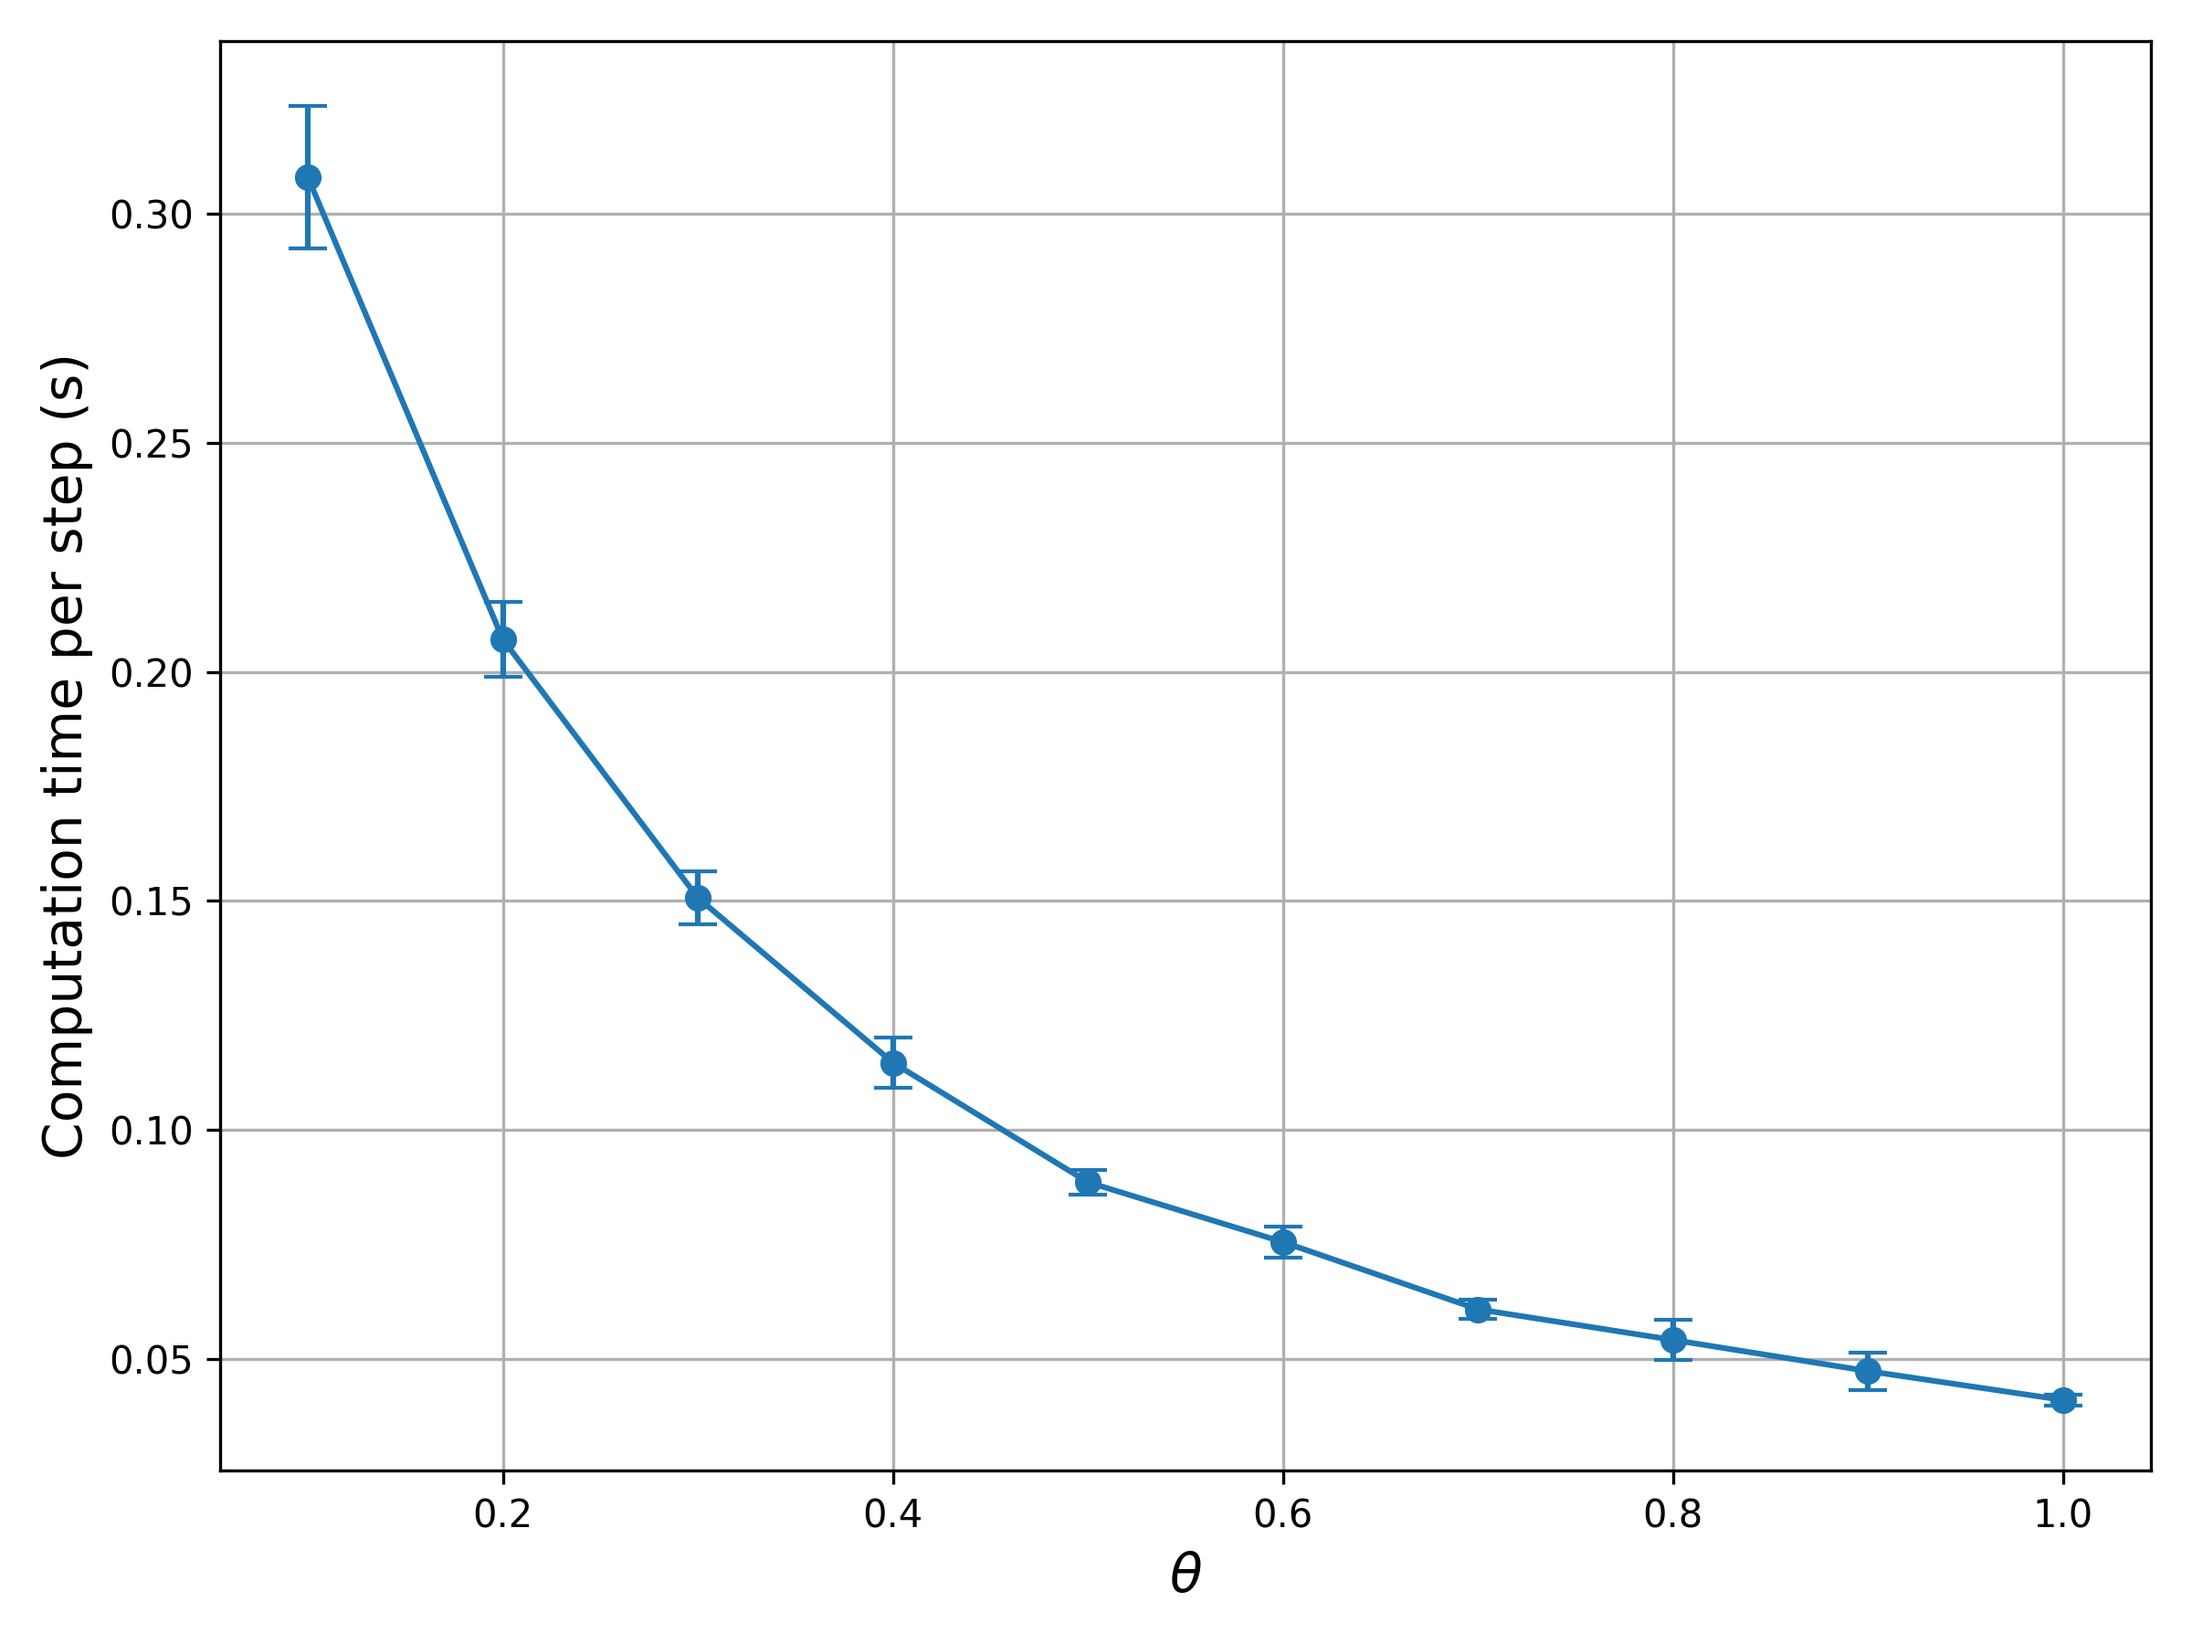
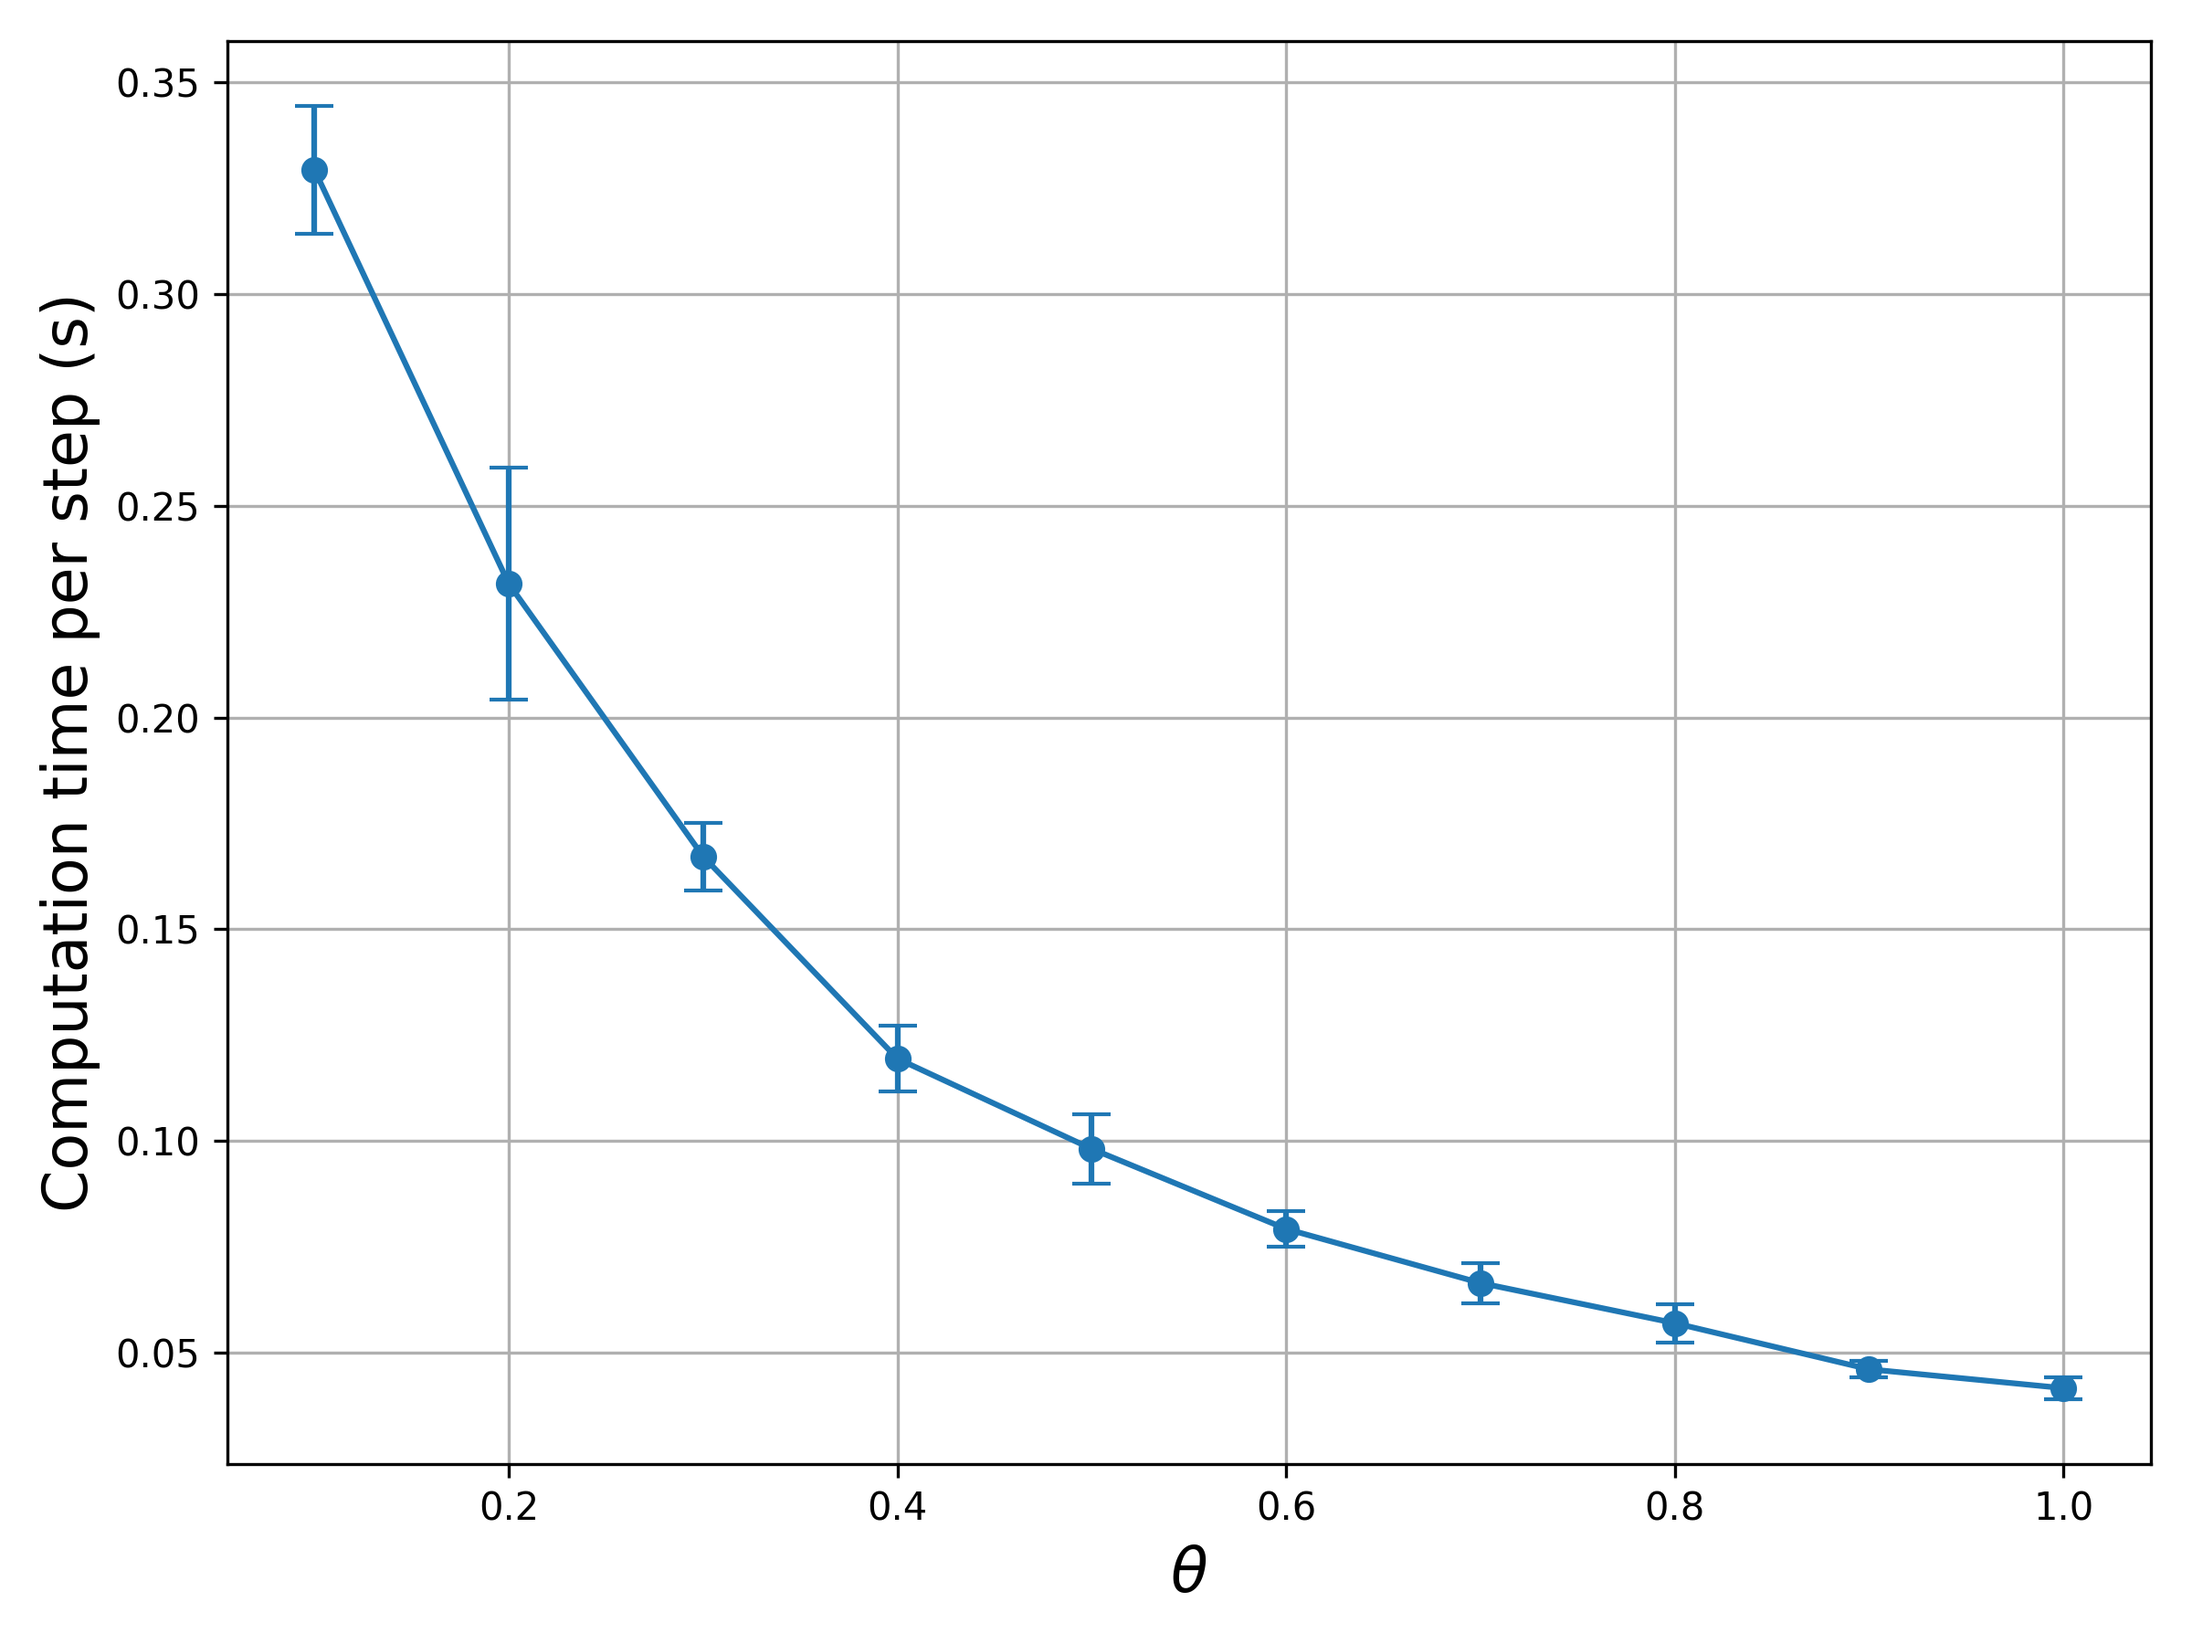
tweaks

diff --git a/source/BH/timingtheta.py b/source/BH/timingtheta.py
@@ -49,8 +49,8 @@ def main():
     # Plot results with error bars
     plt.figure(figsize=(8, 6))
     plt.errorbar(theta_values, avg_times, yerr=std_times, fmt='o-', capsize=5)
-    plt.xlabel(r'$\theta$', fontsize = 14)  
-    plt.ylabel('Computation time per step (s)', fontsize = 14)
+    plt.xlabel(r'$\theta$', fontsize = 16)  
+    plt.ylabel('Computation time per step (s)', fontsize = 16)
     plt.grid(True)
     plt.tight_layout()
     plt.savefig('figures/theta.png', dpi=300)
